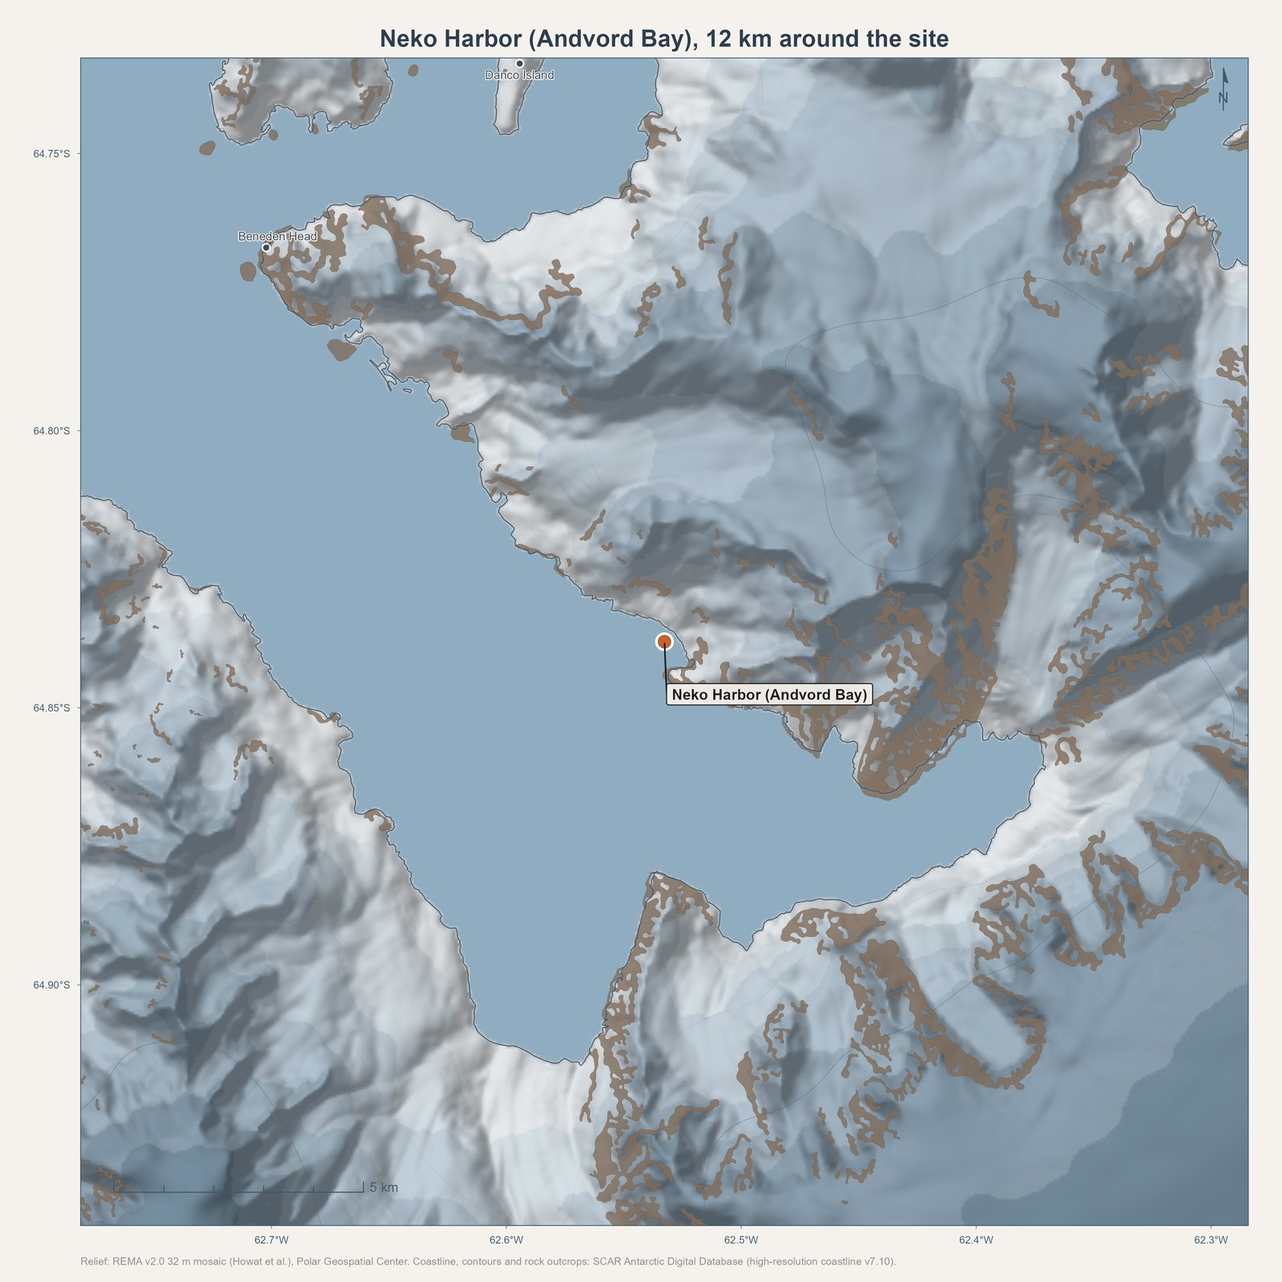
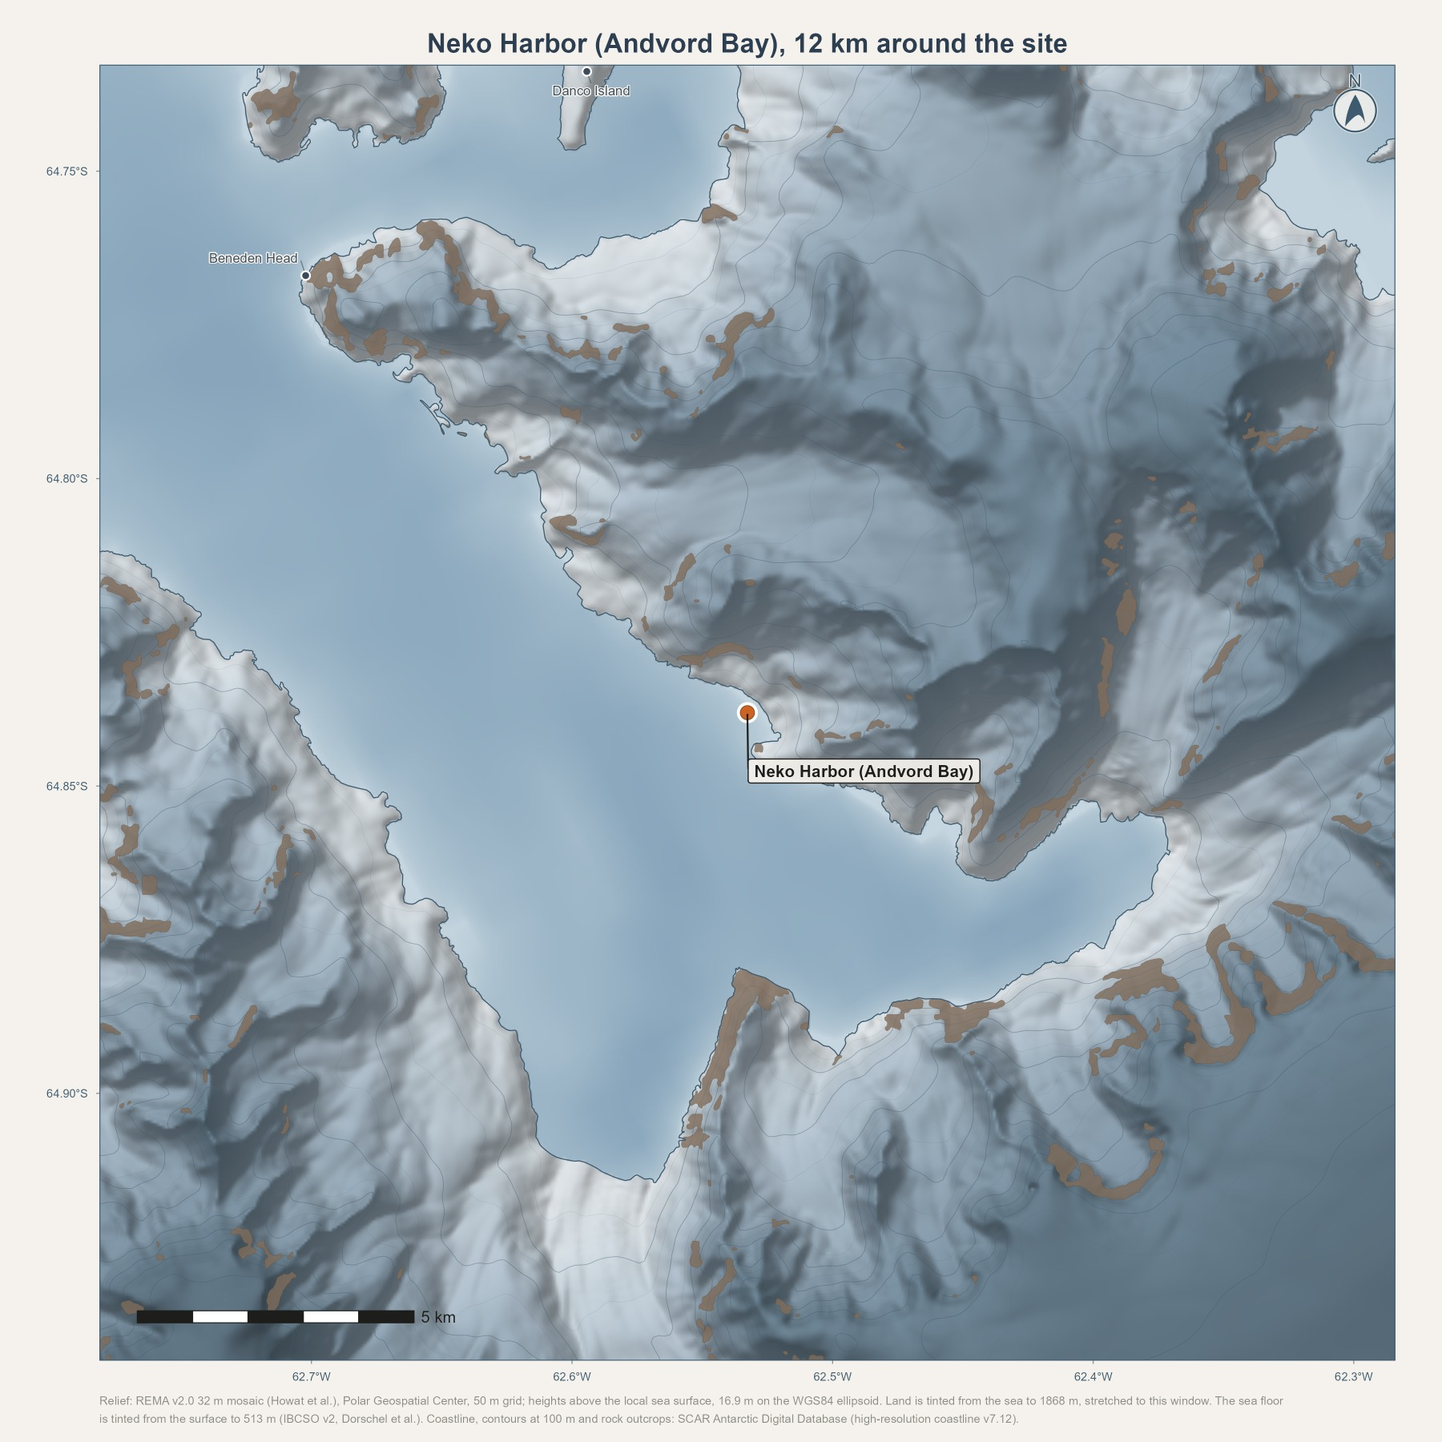
Open the layers rather than counting them, and cut the README to a README
check_offline() asked whether a file sits at the path. That is not the
question a trip depends on, and the difference is not academic: the ADD
contour files on this machine exist, report their full size to the byte, and
throw when anything reads them, because OneDrive has turned them back into
placeholders. The check said the contours were packed. They could not be
drawn. It now opens each layer, covers the bed model as well, and reads only
the header, so the size of the file does not matter. pack_sites() raises the
same test on the coastline and says which of the layers a map can do without
cannot be read.

The contours themselves are fetched to a drive that does not sync, beside the
REMA tiles, with their provenance written out next to them. Both editions are
there because the resolution decides whether the layer is worth drawing at
all: in a 25 km window around Neko Harbor the 500 m file puts six lines at
four levels and the 100 m file puts 266 at twenty-one. Edition 7.3 is current
for both, so the dehydrated copies were never out of date. The workstation
script points at the 100 m set, since the bundle beside it carries only the
500 m one.

The README had grown to 2,776 words, of which 1,389 were two essays. The
gallery of printed wall sheets is gone: those are another package's output and
three images of them opened a page about this one. The retrospective on the
faults shared with that series moves to NOTES.md whole, with a sentence and a
[…]

diff --git a/README.md b/README.md
@@ -20,26 +20,6 @@ date = "2026-12-14", accuracy = 2)` with an example count. The map alone, from
 
 <img src="man/figures/neko_map_12km.jpg" width="60%" alt="The map of 12 km around Neko Harbor">
 
-## The printed map series
-
-The same stack draws the Antarctic Program's printed wall sheets, which are
-built with the `frazil` package and the program's own scripts and not with
-`landfall`. They are here because the two share their elevation, their coastline
-and their cartography, so a fault found in one is usually a fault in the other,
-and the section at the end of this page sets out what the series has found so
-far.
-
-![The Antarctic Sound and the northwest Weddell Sea](man/figures/antarctic_sound_sheet.jpg)
-
-The Antarctic Sound and the northwest Weddell Sea, 36 by 24 inches at 1:354,200,
-carrying 92 place names and 50 colonies keyed by number to a list. Below, the
-Danger Islands at 1:42,300, where seven islands holding 443 hectares between
-them carry 751,527 Adelie nests, and the Lemaire Channel and Penola Strait at
-1:62,500.
-
-<img src="man/figures/danger_islands_sheet.jpg" width="49%" alt="The Danger Islands">
-<img src="man/figures/lemaire_channel_sheet.jpg" width="31%" alt="The Lemaire Channel and Penola Strait">
-
 ## Installation
 
 ```r
@@ -70,7 +50,7 @@ on its own.
 | `coastline_hr` | `add_v7_12/`, `add_v7_11/` or `add_coastline_high_res/` | ADD high-resolution coastline polygons, UK Polar Data Centre, CC BY 4.0 |
 | `coastline`, `iceshelves` | `Continent_ADD/Antarctica_Coastline_med_res_poly.shp`, `iceshelves/medium_res_IceShelfs.shp` | ADD medium-resolution layers, used when the high-resolution file is absent |
 | `rock` | `add_v7_12/`, `add_v7_11/` or `add_rock_outcrop/` | ADD high-resolution rock outcrops |
-| `contours` | `add_contours/add_contours_medium_res_v7.3.gpkg` | ADD medium-resolution contours |
+| `contours` | `add_contours/add_contours_medium_res_v7.3.gpkg` | ADD contours v7.3, EGM2008 heights. The medium file is 500 m intervals; the high-resolution one is 100 m and is the one to set for a site map |
 | `bathymetry` | `ibcso_v2/IBCSO_v2_bed.nc` | IBCSO v2 bed model, AWI, CC BY 4.0. Not an ADD layer |
 
 The coastline and the rock outcrops are each named differently in every ADD
@@ -79,6 +59,15 @@ on disk. Setting the path by hand pins a release. The sea floor is tinted
 where `bathymetry` points at a bed model and drawn flat where it does not,
 and a contour or rock layer that cannot be read is left out with a message
 rather than stopping the map.
+
+Keep these files outside a folder that syncs to cloud storage. A layer of
+this size gets turned back into a placeholder that exists, reports its full
+size and throws when anything reads it, and the map is then drawn without it.
+Set such a layer on its own, as `rema_dir` already is:
+
+```r
+landfall_paths(contours = "G:/spatial/add_contours_high_res_v7.3.gpkg")
+```
 
 Elevation comes from the REMA v2.0 32 m tiles of the Polar Geospatial Center,
 which `pack_sites()` fetches into `rema_dir` as a site needs them. Each tile
@@ -94,9 +83,11 @@ separately from a transfer that failed.
 pack_sites(c("NEKO", "CUVE", "DANC", "PETE", "HALF"), radius_km = 25)
 ```
 
-This fetches the missing REMA tiles, checks the coastline and the other layers
-are on disk, and builds and caches each site's relief. `check_offline()` lists
-what each site needs and whether it is there, without fetching anything.
+This fetches the missing REMA tiles, checks that the coastline and the other
+layers open, and builds and caches each site's relief. `check_offline()` lists
+what each site needs and whether it can be read, without fetching anything. It
+opens each layer rather than testing that a file is there, because a layer left
+as a placeholder by cloud storage is there and still cannot be drawn.
 
 ## On the trip
 
@@ -164,135 +155,17 @@ made in January 2027 belongs to season 2026.
 ## Style
 
 The maps follow the BRI neighborhood maps: REMA elevation under a
-four-direction Imhof hillshade, a hypsometric ice ramp, the ocean in slate
-blue, the ADD coastline, ice shelves, contours and rock outcrops, and a
-parchment page. The charts use the BRI figure style and its Dieter Rams
-palette.
+four-direction Imhof hillshade, a hypsometric ice ramp, the sea floor tinted
+from IBCSO, the ADD coastline, ice shelves, contours and rock outcrops, and a
+parchment page. The charts use the BRI figure style. The north arrow is a glyph
+inside a ring, and `site_map(arrow = "delta")` picks the second of the two.
 
-The ramp is stretched to each window's own relief, from the sea to the 99.5th
-percentile of the land inside the drawn frame, and the caption says what that
-top is. Held instead to a fixed scale running to 2400 m, a 25 km window round
-a landing site uses two of the eight colors and reads as flat. The cost is
-that a color means a height within one map and not between two, which is why
-the caption carries the number. The ramp runs continuously between its eight
-anchors, mixed in Lab: eight flat steps over a kilometer of relief print as
-hard-edged bands a reader takes for contours nobody drew.
+Both ramps are stretched to each window's own range, the land from the sea to
+the 99.5th percentile of the land inside the drawn frame and the sea floor from
+the surface to the 99.5th percentile of the depth. A color therefore means a
+height, or a depth, within one map and not between two, which is why the caption
+carries both numbers.
 
-The scale bar is a filled alternating bar rather than tick marks, which sit at
-about 1.6 to 1 against the ocean and disappear into the relief. The north
-arrow is a glyph inside a ring with the letter above it, on a backing in the
-paper color, since without one the ring and the letter are read against the
-terrain. `north_arrow_circle()` draws a plain arrowhead or a swept delta, and
-`site_map(arrow = "delta")` picks the second.
-
-## What the wall-map work found, and what it means here
-
-`landfall` shares its stack with the Antarctic Program's printed map series:
-REMA elevation under a four-direction hillshade, the ADD layers, `ggrepel` for
-the labels and `ggspatial` for the scale bar and the north arrow. Four faults
-were found in that series during November 2026 and three of them were present
-in this package. All three are fixed here. Each is written out below with what
-was done about it.
-
-### REMA measures from the ellipsoid, not from the sea
-
-REMA v2.0 heights are above the WGS84 ellipsoid, which on the Antarctic
-Peninsula stands well below the sea surface. Measured from four windows' own
-water, cell by cell off the drawn coastline, the separation is 15.05 m at the
-Lemaire Channel, 18.24 m in the Gerlache Strait, 22.14 m in the Antarctic Sound
-and 22.55 m at the Danger Islands, rising steadily to the northeast. Each figure
-rests on tens of millions of cells and in each window most of them sit within a
-meter of the median, so these are readings of the sea surface and not of noise.
-
-`HYPSO_BREAKS` starts at 0 m and `terrain.R` feeds it REMA's own values, so on
-any Peninsula site the ramp's first step begins at the sea surface plus that
-separation. Every beach and every low landing is tinted as though it stood 15 to
-22 m higher than it does, which on the low gentoo sites this package is built
-for is the whole of the ground a party walks on. The same offset means the cut
-at zero in `terrain.R` never fires at the shore: a cell REMA reads below the sea
-surface still reads above zero on the ellipsoid, so it is drawn as the palest
-ice instead of being dropped.
-
-The repair used in the map series is to measure the separation from the window's
-own water, take it off the merged model, cut the model to the drawn land with a
-collar so the hillshade keeps its neighbors at every shore, and floor it just
-above zero so that land REMA cannot height sits at the bottom of the ramp rather
-than vanishing. The measurement is cheap, because the window's own sea is
-already in the grid.
-
-**Fixed.** `build_site_terrain()` measures the sea surface from the window's own
-water, takes it off the model, shades a copy cut to a 60 m collar beyond the
-drawn land, and floors the land at 0.25 m. At Neko Harbor the separation
-measures 16.83 m, between the 15.05 m of the Lemaire Channel and the 18.24 m of
-the Gerlache Strait, which is where Andvord Bay should sit. The same pass
-separates two masks that had been one: water takes the ocean color, and land
-the coastline puts above the sea for which REMA holds no height takes a flat
-land tint and is counted and reported. At Neko Harbor that is 2,921 cells of
-439,558, which had been drawn as open water on ground.
-
-### The relief cache is keyed on less than it is built from
-
-`window_stem()` names the cached relief from the site code, the radius and the
-central meridian. The grid resolution, the exaggeration, the shadow floor, the
-hypsometric ramp and the version of the coastline the model is masked to are all
-absent from that name, so changing any of them returns the image built before
-the change with no warning. The map series hit this four times in a week, on the
-coastline version, the contour and sea-floor resolutions, the REMA tile set and
-the elevation datum, and settled on writing a signature of every setting beside
-the cached raster and rebuilding on a mismatch.
-
-**Fixed.** `terrain_signature()` writes the window's own coordinates, the
-projection, the grid, the exaggeration, the shadow floor, the collar, the
-elevation source and the coastline file with their sizes and timestamps, and
-the ramp and its breaks, into a file beside the raster. The cache is reused
-only on an exact match. This also closes a worse case than a stale style: two
-different places can share a cache file name, because the name carries only the
-site code, the radius and the meridian, and a point of your own labelled NEKO
-at the same radius writes where Neko Harbor wrote. `clear_terrain_cache()`
-removes them by site or all at once.
-
-### The scale bar and the north arrow are invisible to the labels
-
-`map.R` draws site names through `ggrepel` and the bar and the arrow through
-`ggspatial`, which places them from the panel's own corners. The repel pass
-cannot see either, so a site name can be laid straight across one. On the
-Lemaire Channel sheet the bar cut a name in half and it went unnoticed for days
-because an inset happened to be covering both. The repair is to hand the bar's
-and the arrow's footprints back to the layout as a grid of points carrying no
-label, spaced closer than the shortest label box is tall, because a name is
-pushed only by a point that falls inside its own box.
-
-**Fixed.** The bar's and the arrow's footprints were measured by drawing the
-map twice, once with the two annotations and once without, and reading the
-bounding box of every pixel that changed. Each rectangle, plus a margin, is now
-laid down as a lattice of points that carry no label and so draw nothing, and
-`check_map_labels()` reads every label back out of the finished drawing and
-reports any that still meets another or sits on one of those points.
-
-Turning a corner measured in centimeters into ground meters needs the drawn
-panel's size, which is the figure less its margins, its title, its caption and
-its edge labels. `map_panel_inches()` measures it by drawing a plot that
-carries the same frame and text but no data layers; the skeleton and the full
-map gave the same panel to five decimal places at three figure sizes.
-
-Two things had to change before any of it moved a name. ggrepel pushes a label
-away from a point only within `point.padding` of it, and the default is a
-millionth of a line, so the first barrier was laid down correctly and did
-nothing. And `max.overlaps` counts every barrier point, so a ceiling there
-drops the very names the barrier is meant to move. On a test map with a place
-name planted in the middle of each corner, both names sat on the furniture
-before the repair and neither did after.
-
-### Measure the picture, not the settings
-
-The fourth fault does not arise here, because this package prints no ratio
-scale, but the habit it taught is worth keeping. A setting that says what a
-figure should be is not evidence of what it is: a terrain raster can be enlarged
-to fill a frame, a scale bar can be drawn and then covered, and a label layout
-can stop on a clock with its labels still moving. Each of those shipped in the
-map series and each was found only by reading the exported image back and
-measuring it. The checks that caught them are cheap: the share of horizontally
-adjacent pixels that are identical tells you whether a raster was enlarged, the
-longest unbroken run across a scale bar's own band tells you whether something
-is drawn over it, and redrawing the label layer on its own under the same seed
-lets every label box be read back and compared.
+Three of the four faults found in the printed wall sheets during November 2026
+were present here too, and all three are fixed. [NOTES.md](NOTES.md) sets out
+each one and what was done about it.

diff --git a/NOTES.md b/NOTES.md
@@ -1,0 +1,111 @@
+# What the wall-map work found
+
+`landfall` shares its stack with the Antarctic Program's printed map series:
+REMA elevation under a four-direction hillshade, the ADD layers, `ggrepel` for
+the labels and `ggspatial` for the scale bar and the north arrow. Four faults
+were found in that series during November 2026 and three of them were present
+in this package. All three are fixed here. Each is written out below with what
+was done about it. The fixes themselves are in [NEWS.md](NEWS.md).
+
+## REMA measures from the ellipsoid, not from the sea
+
+REMA v2.0 heights are above the WGS84 ellipsoid, which on the Antarctic
+Peninsula stands well below the sea surface. Measured from four windows' own
+water, cell by cell off the drawn coastline, the separation is 15.05 m at the
+Lemaire Channel, 18.24 m in the Gerlache Strait, 22.14 m in the Antarctic Sound
+and 22.55 m at the Danger Islands, rising steadily to the northeast. Each figure
+rests on tens of millions of cells and in each window most of them sit within a
+meter of the median, so these are readings of the sea surface and not of noise.
+
+`HYPSO_BREAKS` starts at 0 m and `terrain.R` feeds it REMA's own values, so on
+any Peninsula site the ramp's first step begins at the sea surface plus that
+separation. Every beach and every low landing is tinted as though it stood 15 to
+22 m higher than it does, which on the low gentoo sites this package is built
+for is the whole of the ground a party walks on. The same offset means the cut
+at zero in `terrain.R` never fires at the shore: a cell REMA reads below the sea
+surface still reads above zero on the ellipsoid, so it is drawn as the palest
+ice instead of being dropped.
+
+The repair used in the map series is to measure the separation from the window's
+own water, take it off the merged model, cut the model to the drawn land with a
+collar so the hillshade keeps its neighbors at every shore, and floor it just
+above zero so that land REMA cannot height sits at the bottom of the ramp rather
+than vanishing. The measurement is cheap, because the window's own sea is
+already in the grid.
+
+**Fixed.** `build_site_terrain()` measures the sea surface from the window's own
+water, takes it off the model, shades a copy cut to a 60 m collar beyond the
+drawn land, and floors the land at 0.25 m. At Neko Harbor the separation
+measures 16.83 m, between the 15.05 m of the Lemaire Channel and the 18.24 m of
+the Gerlache Strait, which is where Andvord Bay should sit. The same pass
+separates two masks that had been one: water takes the ocean color, and land
+the coastline puts above the sea for which REMA holds no height takes a flat
+land tint and is counted and reported. At Neko Harbor that is 2,921 cells of
+439,558, which had been drawn as open water on ground.
+
+## The relief cache is keyed on less than it is built from
+
+`window_stem()` names the cached relief from the site code, the radius and the
+central meridian. The grid resolution, the exaggeration, the shadow floor, the
+hypsometric ramp and the version of the coastline the model is masked to are all
+absent from that name, so changing any of them returns the image built before
+the change with no warning. The map series hit this four times in a week, on the
+coastline version, the contour and sea-floor resolutions, the REMA tile set and
+the elevation datum, and settled on writing a signature of every setting beside
+the cached raster and rebuilding on a mismatch.
+
+**Fixed.** `terrain_signature()` writes the window's own coordinates, the
+projection, the grid, the exaggeration, the shadow floor, the collar, the
+elevation source and the coastline file with their sizes and timestamps, and
+the ramp and its breaks, into a file beside the raster. The cache is reused
+only on an exact match. This also closes a worse case than a stale style: two
+different places can share a cache file name, because the name carries only the
+site code, the radius and the meridian, and a point of your own labelled NEKO
+at the same radius writes where Neko Harbor wrote. `clear_terrain_cache()`
+removes them by site or all at once.
+
+## The scale bar and the north arrow are invisible to the labels
+
+`map.R` draws site names through `ggrepel` and the bar and the arrow through
+`ggspatial`, which places them from the panel's own corners. The repel pass
+cannot see either, so a site name can be laid straight across one. On the
+Lemaire Channel sheet the bar cut a name in half and it went unnoticed for days
+because an inset happened to be covering both. The repair is to hand the bar's
+and the arrow's footprints back to the layout as a grid of points carrying no
+label, spaced closer than the shortest label box is tall, because a name is
+pushed only by a point that falls inside its own box.
+
+**Fixed.** The bar's and the arrow's footprints were measured by drawing the
+map twice, once with the two annotations and once without, and reading the
+bounding box of every pixel that changed. Each rectangle, plus a margin, is now
+laid down as a lattice of points that carry no label and so draw nothing, and
+`check_map_labels()` reads every label back out of the finished drawing and
+reports any that still meets another or sits on one of those points.
+
+Turning a corner measured in centimeters into ground meters needs the drawn
+panel's size, which is the figure less its margins, its title, its caption and
+its edge labels. `map_panel_inches()` measures it by drawing a plot that
+carries the same frame and text but no data layers; the skeleton and the full
+map gave the same panel to five decimal places at three figure sizes.
+
+Two things had to change before any of it moved a name. ggrepel pushes a label
+away from a point only within `point.padding` of it, and the default is a
+millionth of a line, so the first barrier was laid down correctly and did
+nothing. And `max.overlaps` counts every barrier point, so a ceiling there
+drops the very names the barrier is meant to move. On a test map with a place
+name planted in the middle of each corner, both names sat on the furniture
+before the repair and neither did after.
+
+## Measure the picture, not the settings
+
+The fourth fault does not arise here, because this package prints no ratio
+scale, but the habit it taught is worth keeping. A setting that says what a
+figure should be is not evidence of what it is: a terrain raster can be enlarged
+to fill a frame, a scale bar can be drawn and then covered, and a label layout
+can stop on a clock with its labels still moving. Each of those shipped in the
+map series and each was found only by reading the exported image back and
+measuring it. The checks that caught them are cheap: the share of horizontally
+adjacent pixels that are identical tells you whether a raster was enlarged, the
+longest unbroken run across a scale bar's own band tells you whether something
+is drawn over it, and redrawing the label layer on its own under the same seed
+lets every label box be read back and compared.

diff --git a/NEWS.md b/NEWS.md
@@ -179,6 +179,14 @@ change what existing calls do, and each is listed as such.
   placeholder.
 * `landfall_paths()` gained `bathymetry`, which defaults to
   `ibcso_v2/IBCSO_v2_bed.nc` under `spatial`.
+* **Changed.** `check_offline()` reports whether each layer can be opened,
+  not whether a file sits at the path, and covers the bed model as well. The
+  two answers differ on exactly the layer that matters: a placeholder left by
+  cloud storage exists, reports its full size and throws when anything reads
+  it, so the check said a layer was packed for a trip that could not be drawn.
+  Only each layer's header is read, whatever the file's size. `pack_sites()`
+  raises the same test on the coastline and says which of the optional layers
+  cannot be read.
 * `rema_fetch_tiles()` checks whether the mosaic serves a tile before
   downloading, returns a `status` for each one, and checks that the elevation
   file was saved. It had marked a tile fetched without reading the result of
